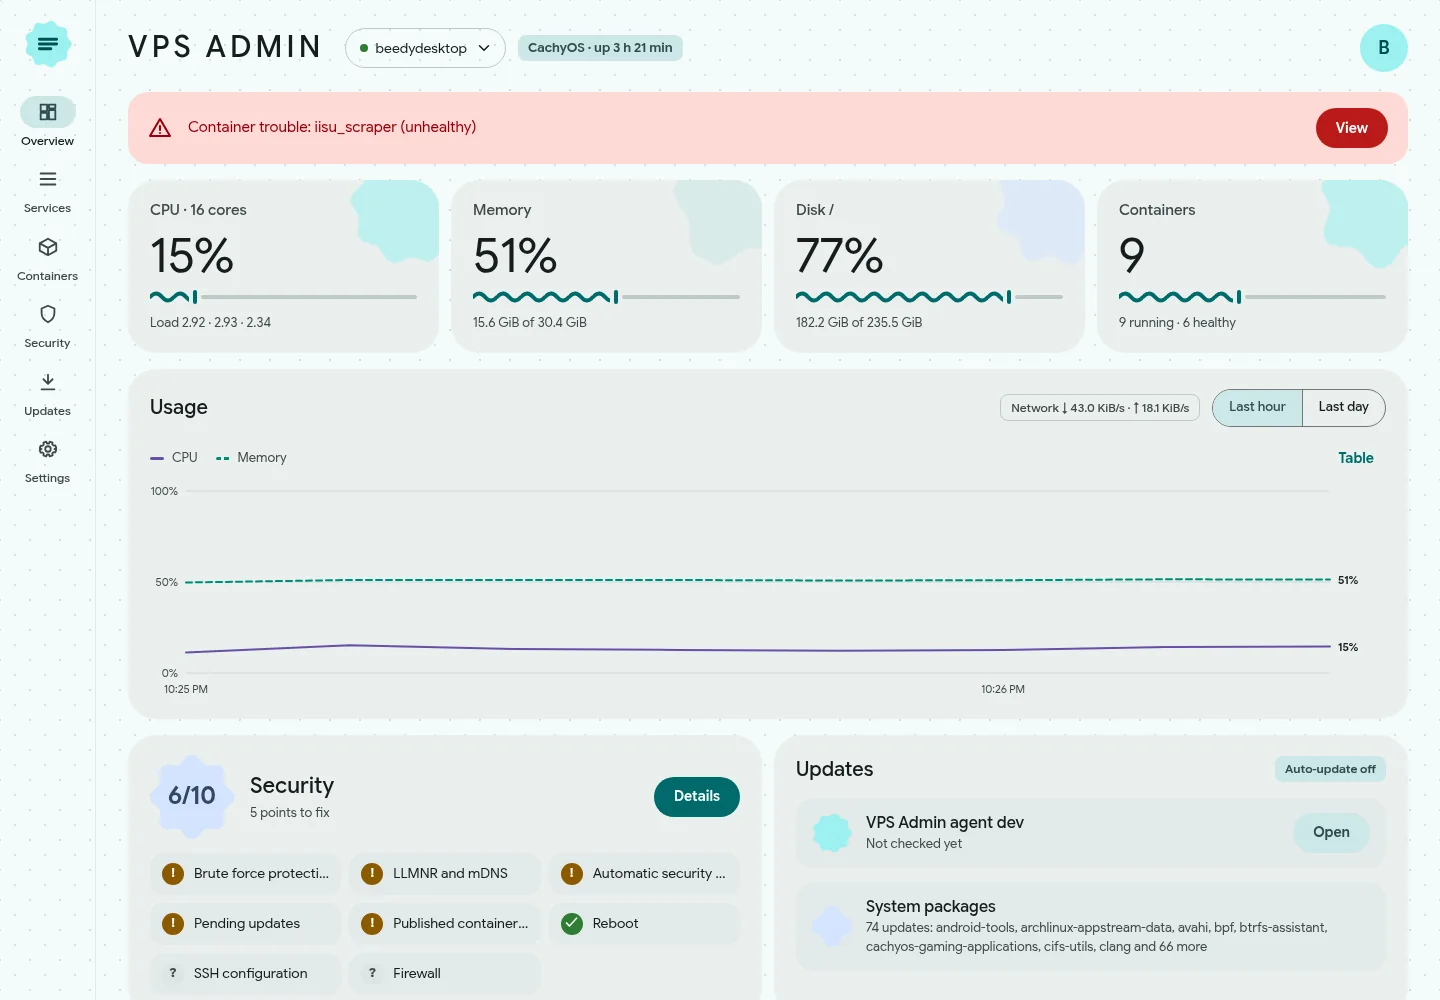
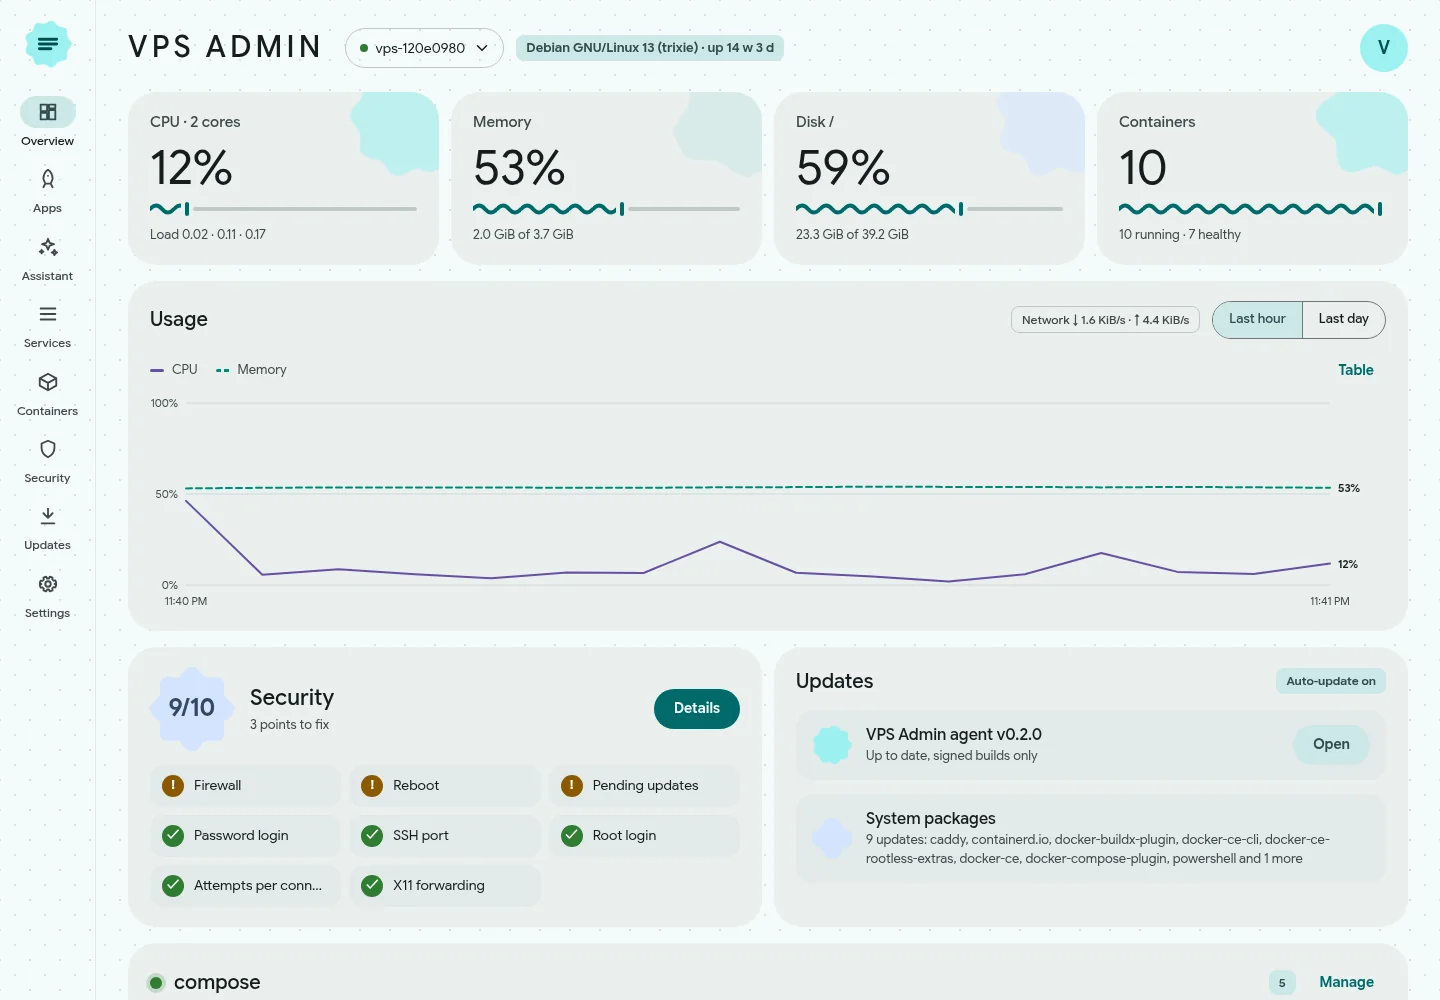
README screenshots from a real server, show failed update checks

diff --git a/app/lib/ui/overview_screen.dart b/app/lib/ui/overview_screen.dart
@@ -99,7 +99,7 @@ class OverviewScreen extends StatelessWidget {
                 contentPadding: const EdgeInsets.fromLTRB(12, 8, 16, 8),
                 leading: ShapeIcon(M3Shape.clover, size: 44, color: cs.secondaryContainer),
                 title: Text('Agent ${d.update!.current}'),
-                subtitle: Text(d.update!.available ? '${d.update!.latest} is available' : 'Up to date · auto-update ${d.update!.auto ? 'on' : 'off'}'),
+                subtitle: Text(d.update!.available ? '${d.update!.latest} is available' : d.update!.error != null ? 'Update check failed: ${d.update!.error}' : 'Up to date · auto-update ${d.update!.auto ? 'on' : 'off'}'),
                 trailing: d.update!.available
                     ? FilledButton(
                         onPressed: () async {

diff --git a/web/src/views/OverviewView.vue b/web/src/views/OverviewView.vue
@@ -217,7 +217,7 @@ onBeforeUnmount(() => clearInterval(timer))
           <div class="grow">
             <div class="tile-title">VPS Admin agent {{ update?.current ?? session.version }}</div>
             <div class="muted small">
-              {{ update?.available ? `${update.latest?.tag} is available` : update?.checkedAt ? 'Up to date, signed builds only' : 'Not checked yet' }}
+              {{ update?.available ? `${update.latest?.tag} is available` : update?.error ? `Update check failed: ${update.error}` : update?.checkedAt ? 'Up to date, signed builds only' : 'Not checked yet' }}
             </div>
           </div>
           <RouterLink to="/updates" class="btn st" :class="update?.available ? 'btn-filled' : 'btn-tonal'">

diff --git a/app/lib/data/models.dart b/app/lib/data/models.dart
@@ -93,9 +93,10 @@ class UpdateStatus {
         latest = (j['latest'] as Map<String, dynamic>?)?['tag'] as String?,
         available = j['available'] as bool? ?? false,
         auto = j['auto'] as bool? ?? false,
-        lastResult = j['lastResult'] as String?;
+        lastResult = j['lastResult'] as String?,
+        error = j['error'] as String?;
   final String current;
-  final String? latest, lastResult;
+  final String? latest, lastResult, error;
   final bool available, auto;
 }
 
